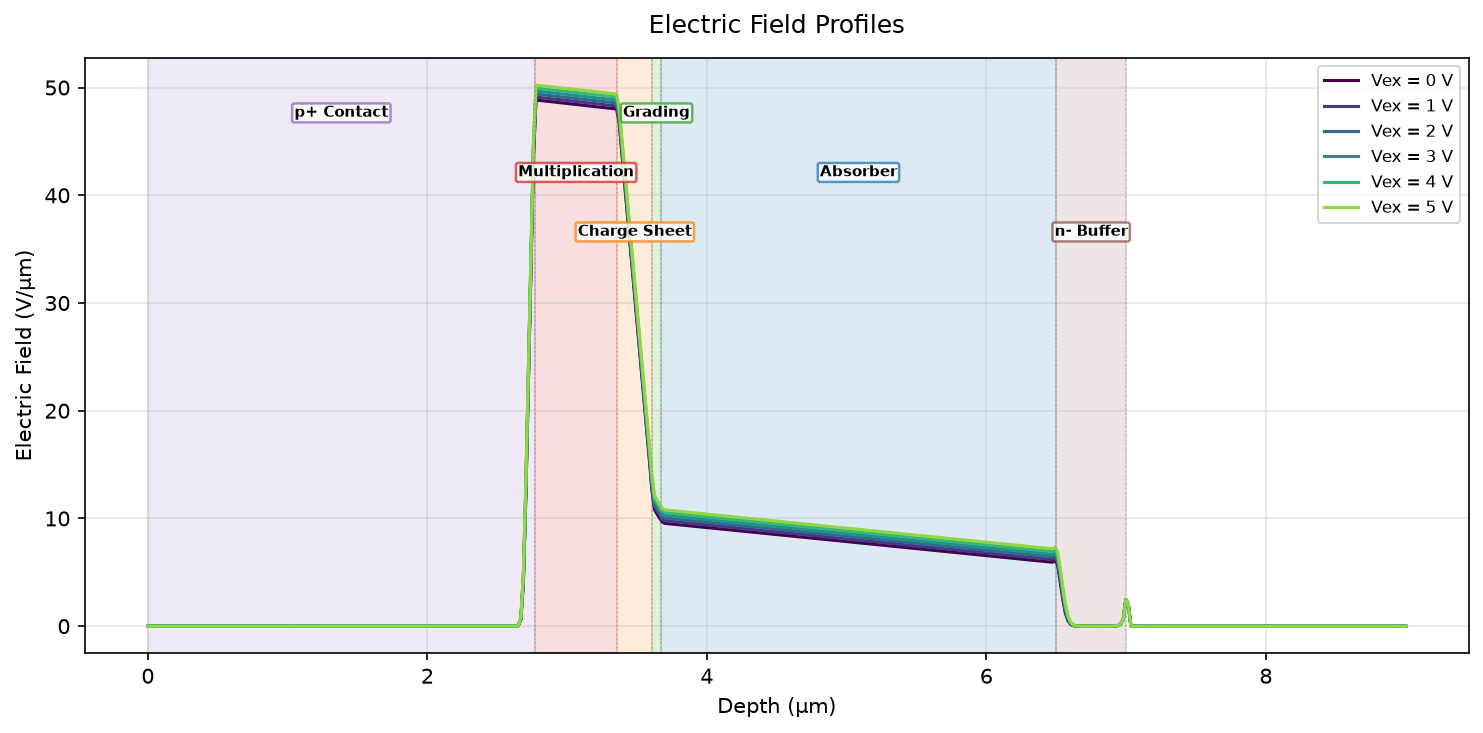
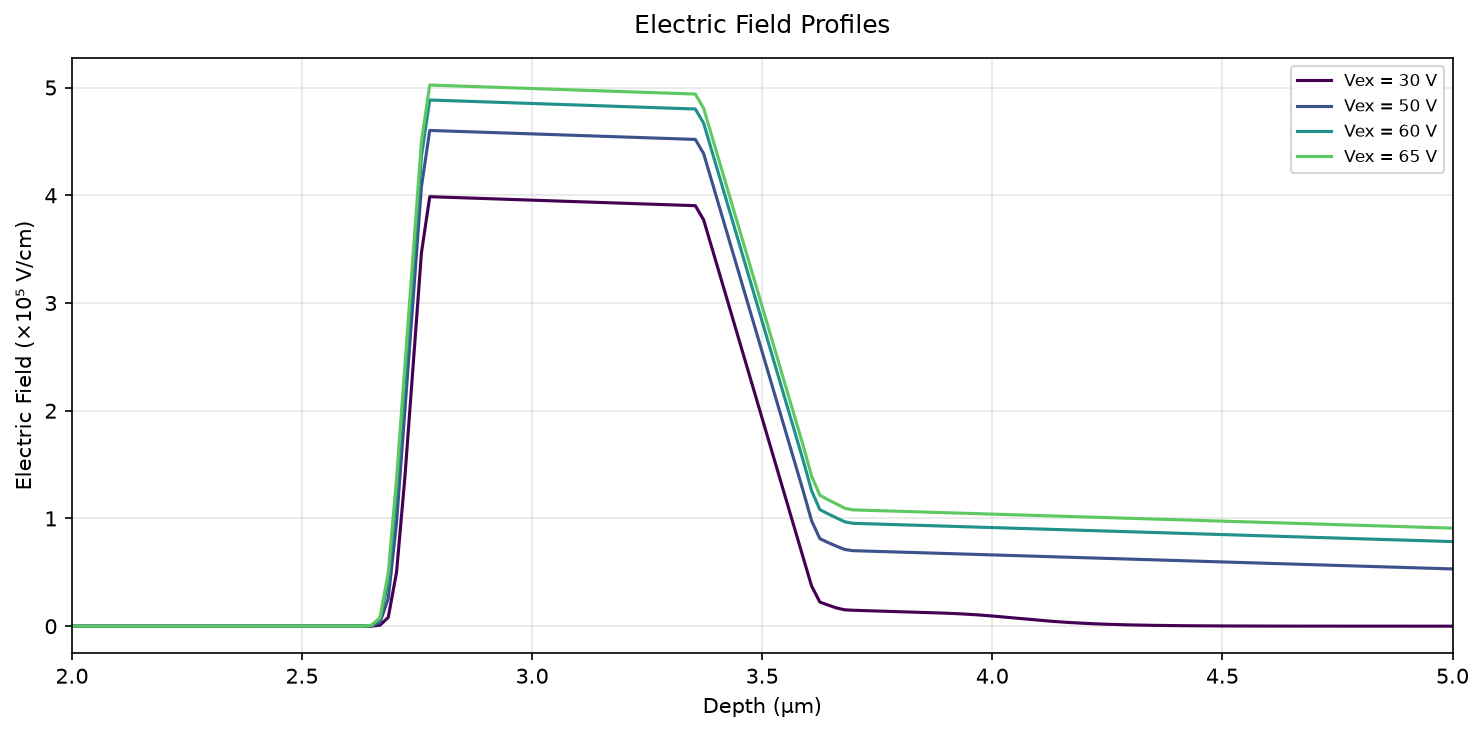
electric field plot: x-axis 2-5μm, y-axis in 1e5 V/cm

diff --git a/src/utils/plotter/fields.py b/src/utils/plotter/fields.py
@@ -53,10 +53,10 @@ class ElectricFieldPlotter(BasePlotter):
                 else V_list
             )
             for i, (E_i, Vex) in enumerate(zip(E, Vex_list)):
-                ax.plot(x_um, -E_i / 1e4, label=f"Vex = {Vex:.0f} V",
+                ax.plot(x_um, -E_i / 1e5, label=f"Vex = {Vex:.0f} V",
                         color=plt.cm.viridis(i / len(E)))
         else:
-            ax.plot(x_um, -np.atleast_1d(E) / 1e4)
+            ax.plot(x_um, -np.atleast_1d(E) / 1e5)
 
         if layer_bounds_um is not None and layer_names is not None:
             region_colors = {
@@ -69,7 +69,6 @@ class ElectricFieldPlotter(BasePlotter):
                 "n+ Substrate\nn-Contact": "#17becf",
             }
             all_bounds = [x_um[0]] + list(layer_bounds_um) + [x_um[-1]]
-            # Stagger labels across 3 vertical rows to avoid overlap
             y_rows = [0.92, 0.82, 0.72]
             for i, name in enumerate(layer_names):
                 x0 = all_bounds[i]
@@ -85,8 +84,9 @@ class ElectricFieldPlotter(BasePlotter):
                         bbox=dict(boxstyle="round,pad=0.15", fc="white",
                                   alpha=0.75, ec=color, lw=1.2))
 
+        ax.set_xlim(2, 5)
         ax.set_xlabel("Depth (µm)")
-        ax.set_ylabel("Electric Field (V/µm)")
+        ax.set_ylabel("Electric Field (×10⁵ V/cm)")
         ax.legend(fontsize=8)
         ax.grid(True, alpha=0.3)
         plt.tight_layout()